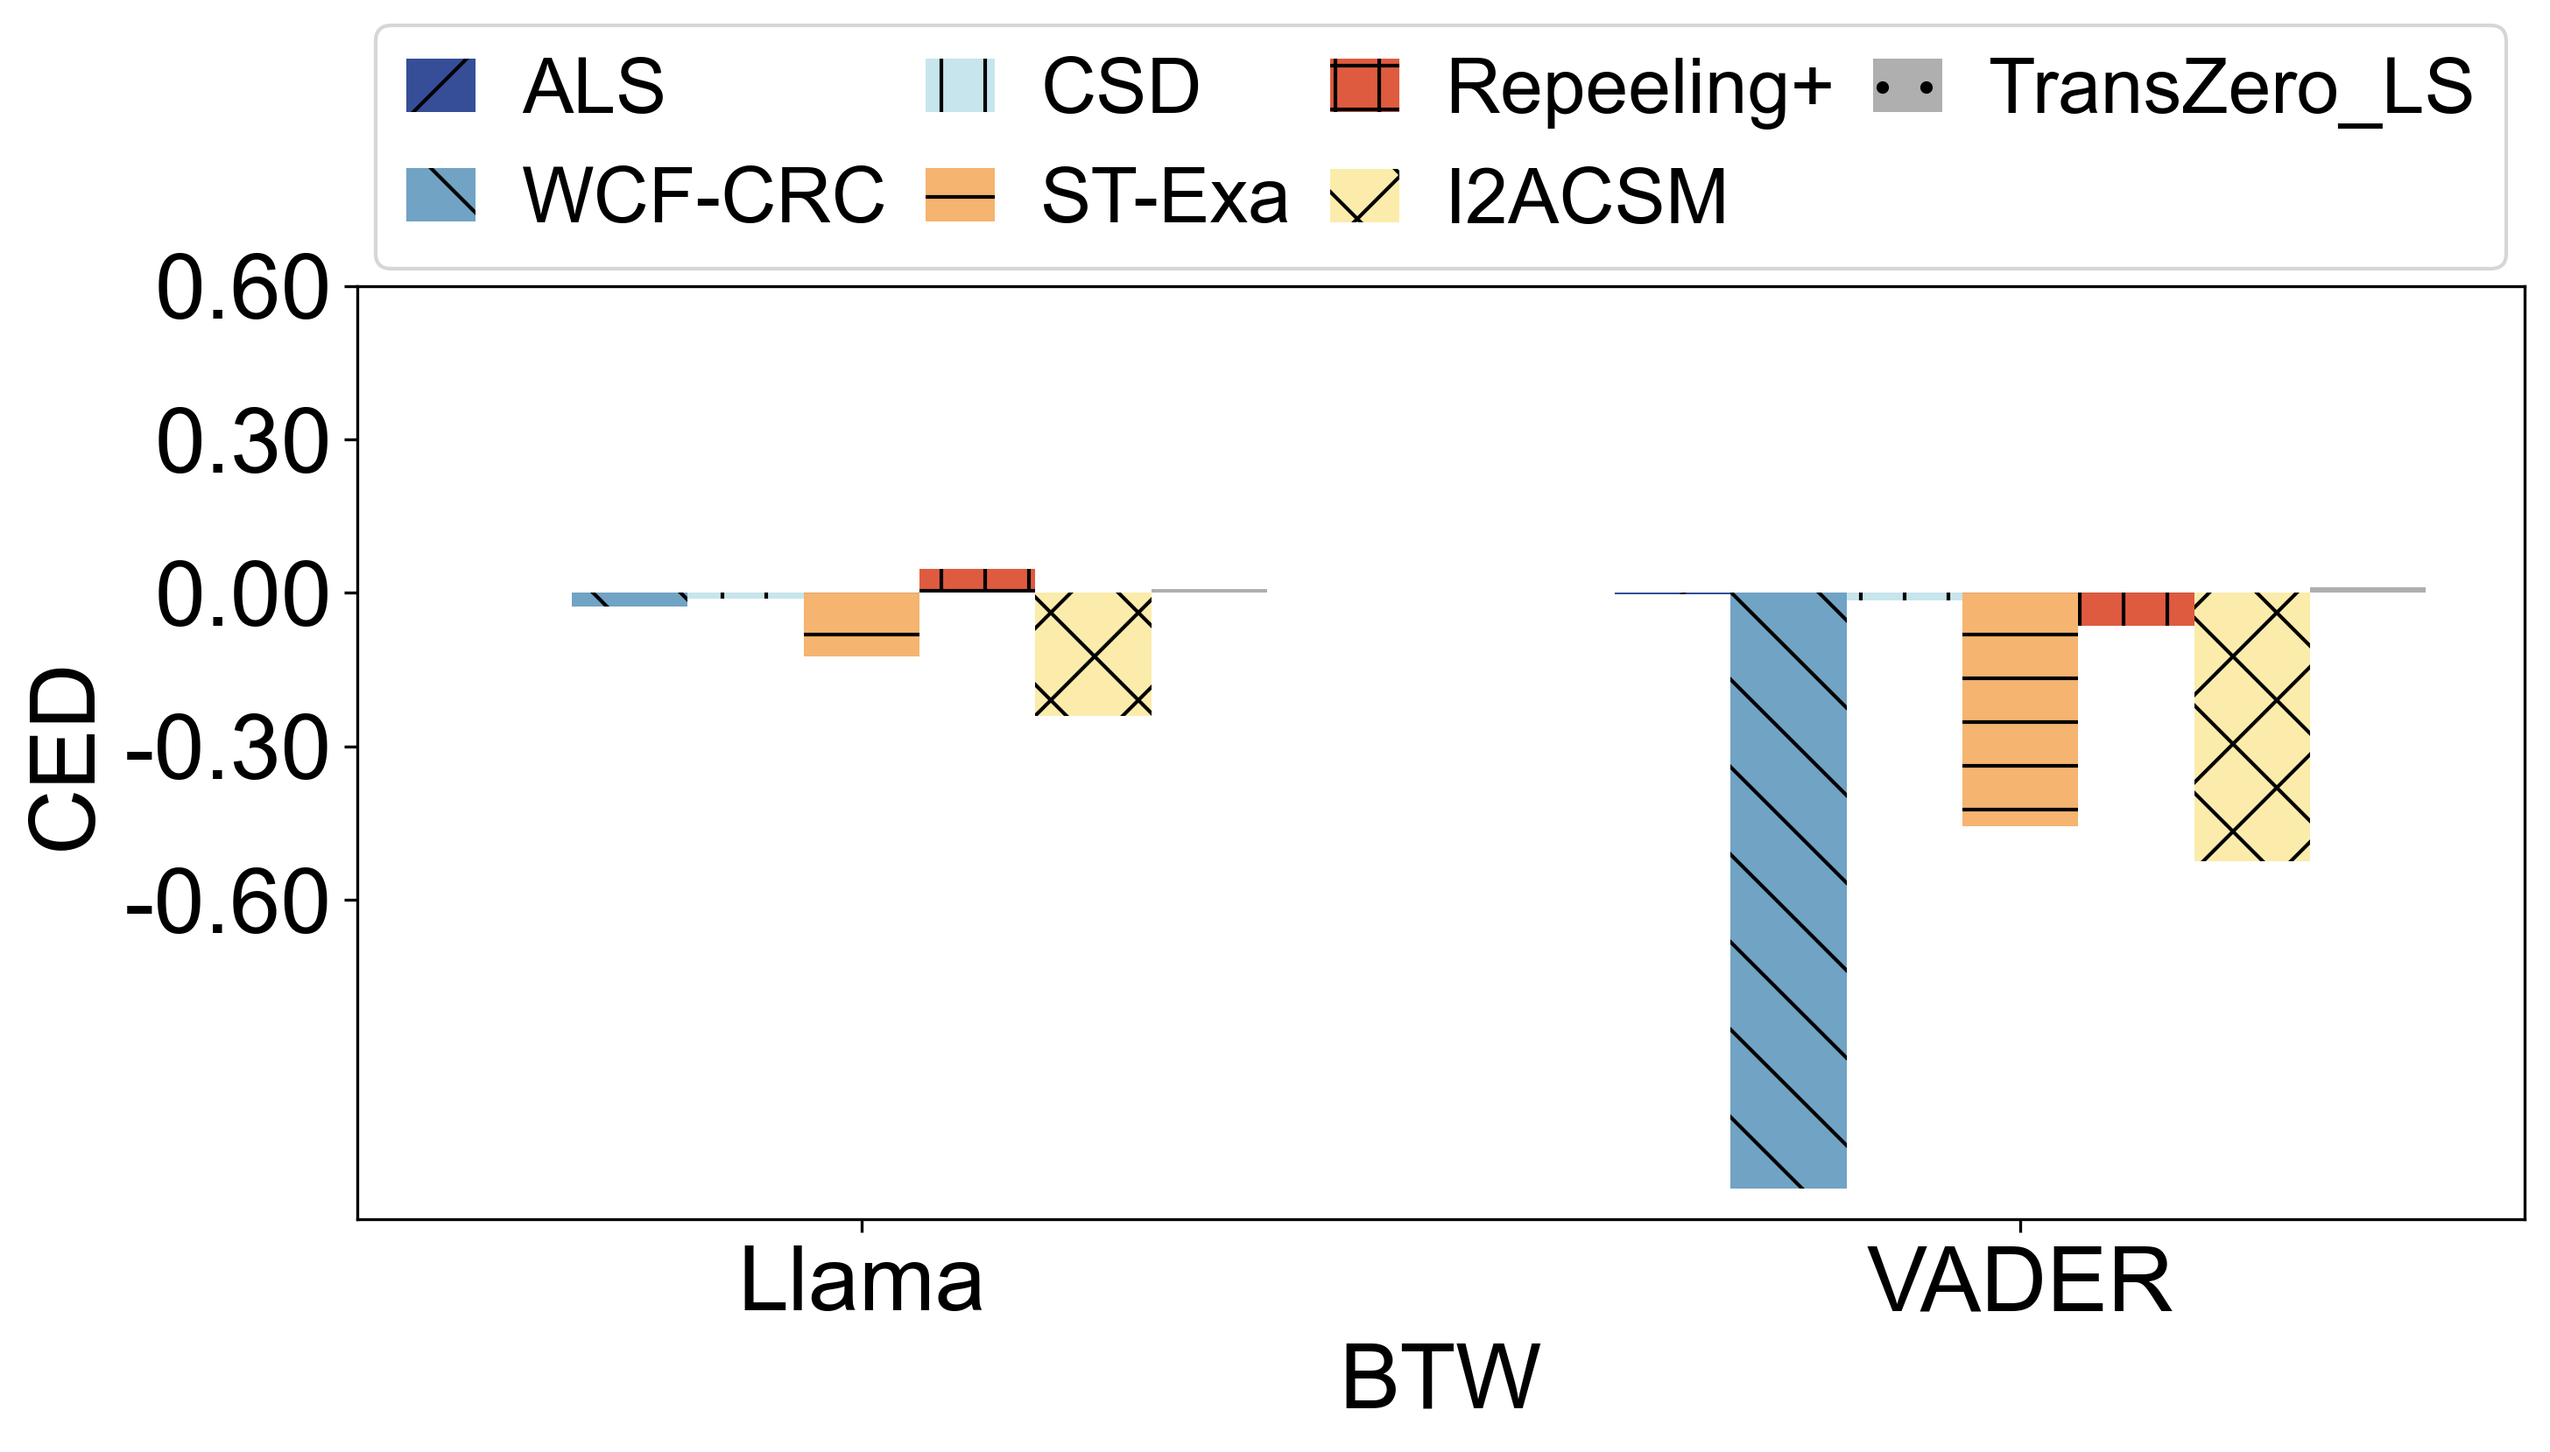
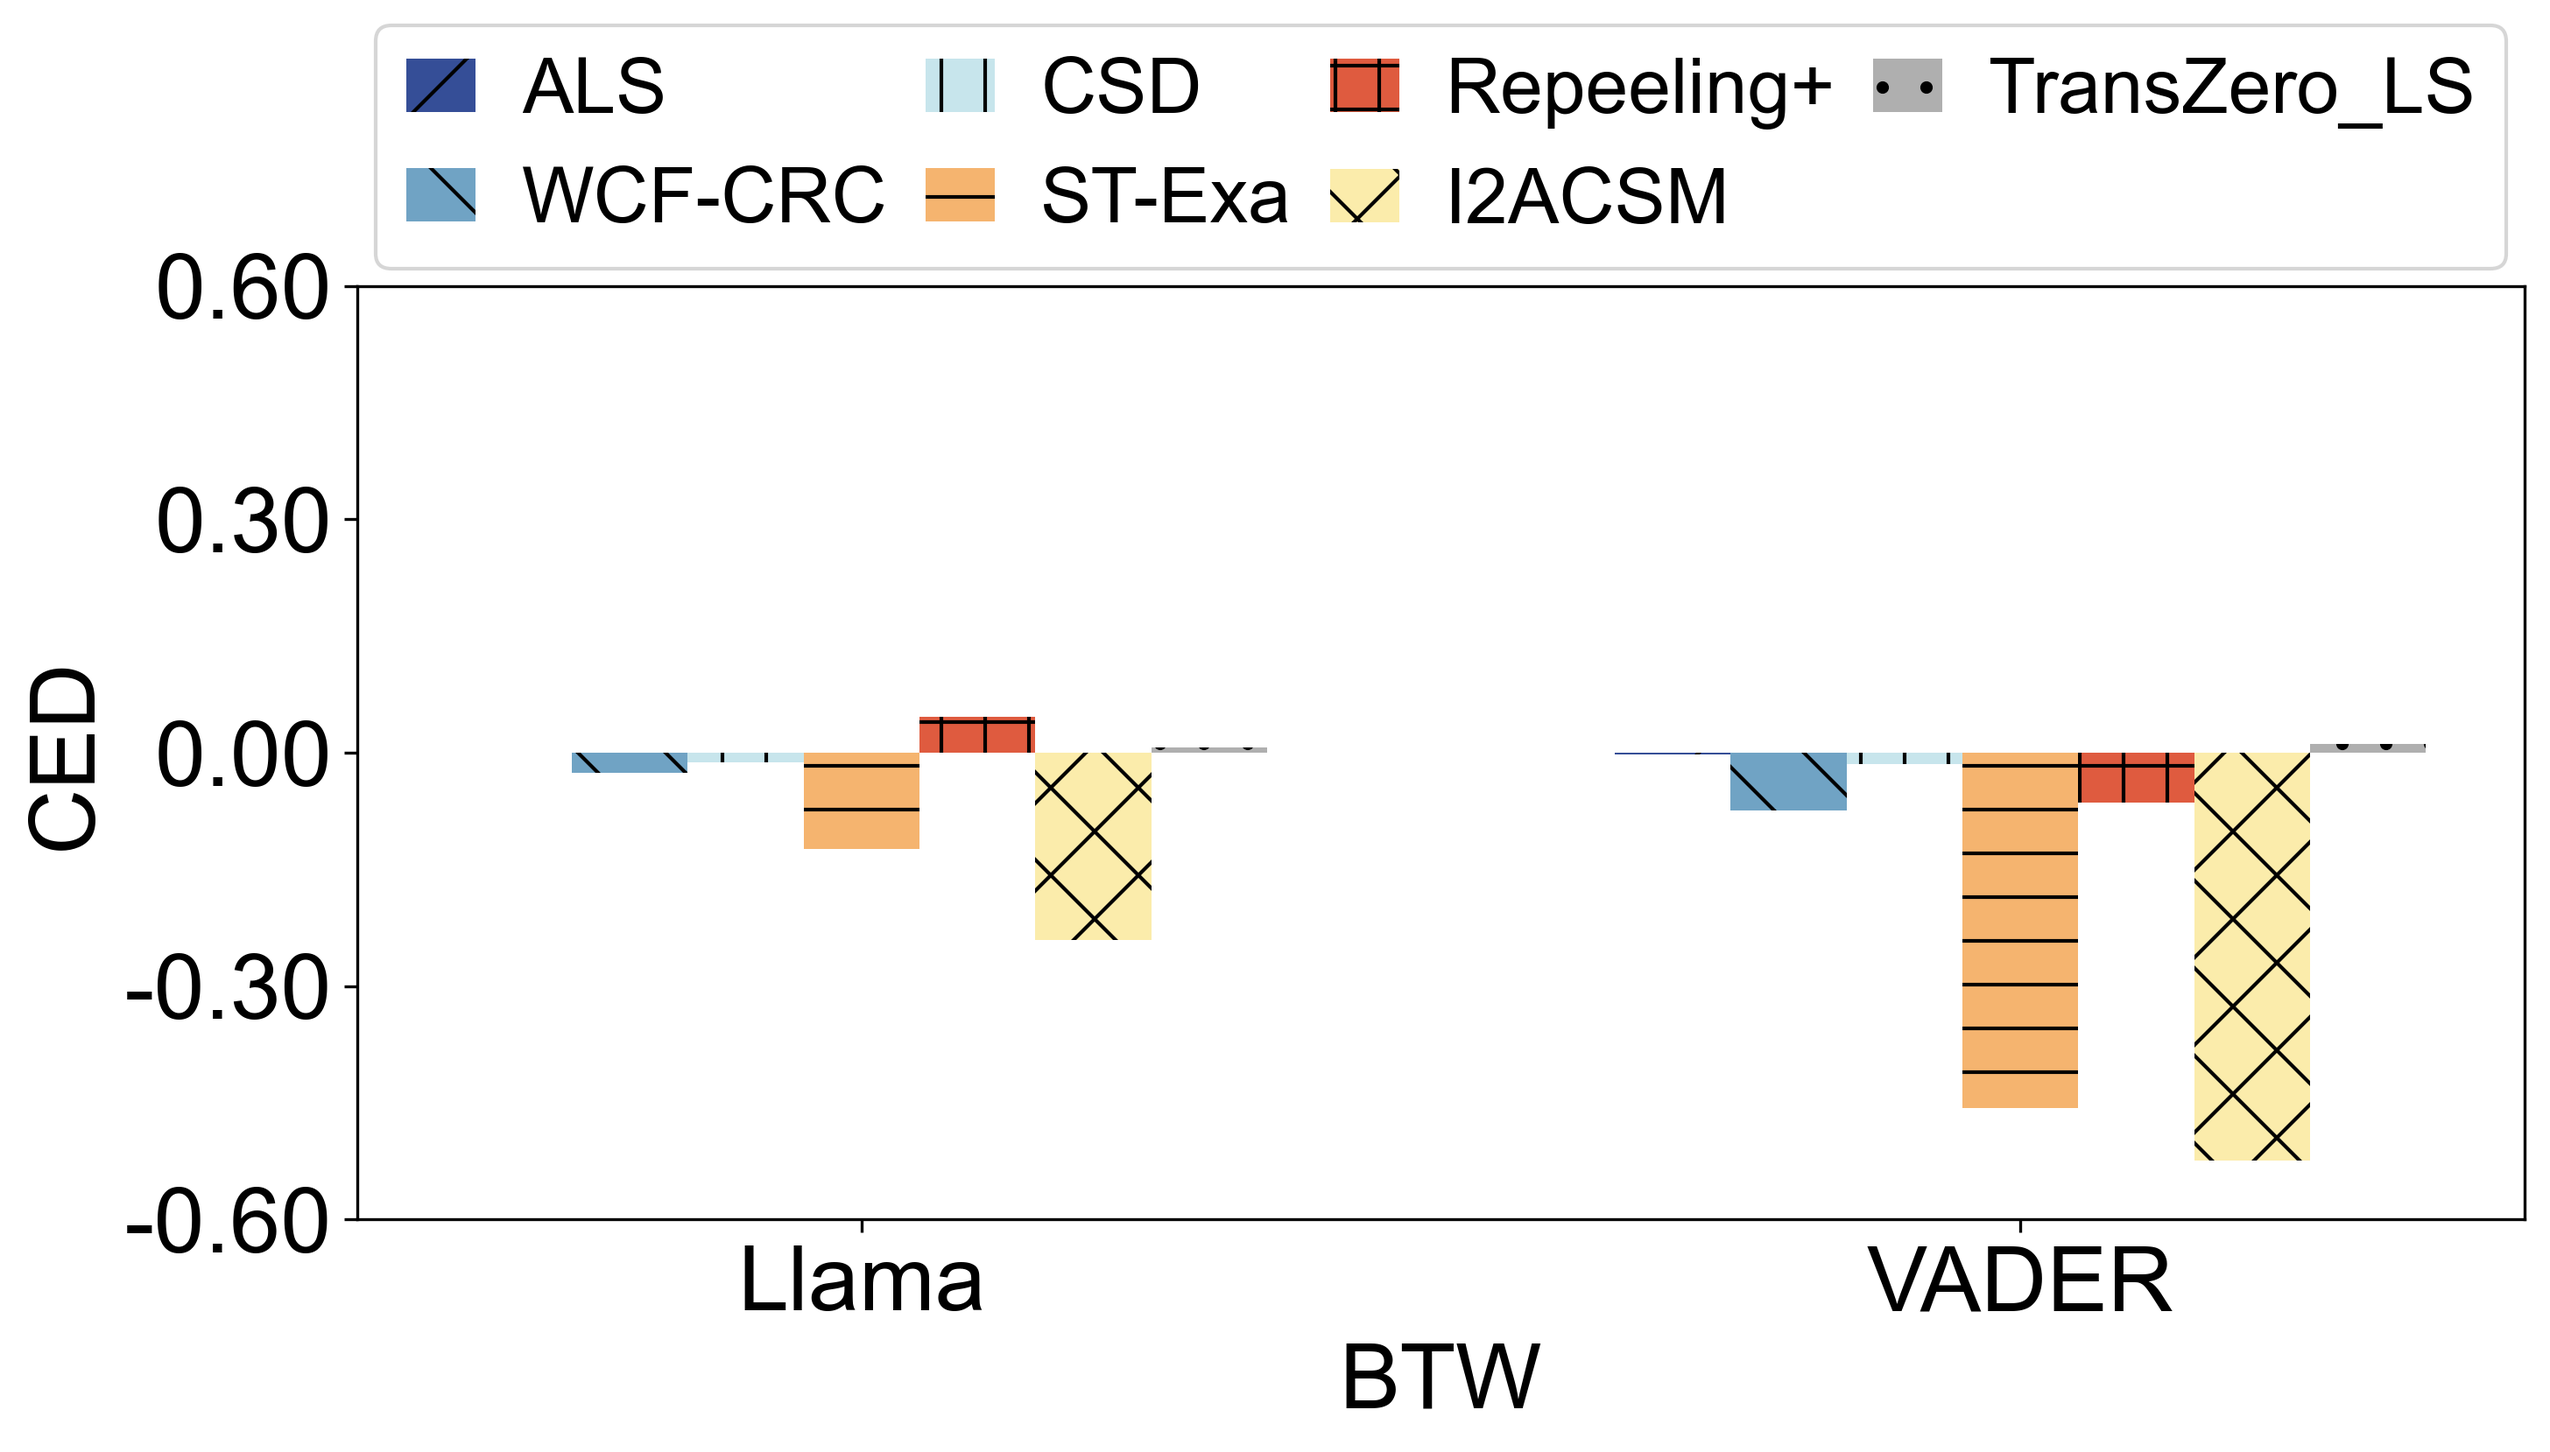
Remove the legend of poly function results

diff --git a/Visualization/Cohesiveness_ATGS.py b/Visualization/Cohesiveness_ATGS.py
@@ -72,10 +72,13 @@ def load_mu_results(dataset, condense_result_dir, mu_list, algo_list):
     return dataset_results
 
 
-def draw_graphs(dataset_results, dataset_label, params_list, algo_list, algo_label_list, color_list, hatch_list, font_size, x_label, threshold, CED_y_min, CED_y_max, CED_y_num, save_label, ncols):
+def draw_graphs(dataset_results, dataset_label, params_list, algo_list, algo_label_list, color_list, hatch_list, font_size, x_label, threshold, CED_y_min, CED_y_max, CED_y_num, save_label, ncols, show_legend):
     global save_path
     for measure, measure_idx in measure_label.items():
-        fig, ax = plt.subplots(figsize=(10, 6))
+        if show_legend:
+            fig, ax = plt.subplots(figsize=(10, 6))
+        else:
+            fig, ax = plt.subplots(figsize=(10, 5))
 
         # Prepare data for each measure
         avg_data = []
@@ -131,7 +134,9 @@ def draw_graphs(dataset_results, dataset_label, params_list, algo_list, algo_lab
 
         # Add legend on the upper center, two rows
         rcParams['legend.borderaxespad'] = 0.3
-        ax.legend(loc='upper center', bbox_to_anchor=(0.5, 1.30), ncol=ncols, fontsize=21, handlelength=0.9, handletextpad=0.6, columnspacing=0.5)
+
+        if show_legend:
+            ax.legend(loc='upper center', bbox_to_anchor=(0.5, 1.30), ncol=ncols, fontsize=21, handlelength=0.9, handletextpad=0.6, columnspacing=0.5)
 
         # Adjust layout
         plt.tight_layout(rect=[0, 0, 1, 1]) # type: ignore
@@ -179,20 +184,20 @@ if __name__ == "__main__":
         if dataset == "BTW17":
             lambda_results = load_lambda_results(dataset, condense_result_dir, lambda_list, algo_list)
             mu_results = load_mu_results(dataset, condense_result_dir, mu_list, algo_list)
-            draw_graphs(lambda_results, dataset_label, lambda_list, algo_list, algo_label_list, color_list, hatch_list, font_size, r"$\lambda$", lambda_threshold, -0.25, 0.25, 6, "lambda", 4)
-            draw_graphs(mu_results, dataset_label, mu_list, algo_list, algo_label_list, color_list, hatch_list, font_size, r"$\mu$", mu_threshold, -0.25, 0.25, 6,"mu", 4)
+            draw_graphs(lambda_results, dataset_label, lambda_list, algo_list, algo_label_list, color_list, hatch_list, font_size, r"$\lambda$", lambda_threshold, -0.25, 0.25, 6, "lambda", 4, True)
+            draw_graphs(mu_results, dataset_label, mu_list, algo_list, algo_label_list, color_list, hatch_list, font_size, r"$\mu$", mu_threshold, -0.25, 0.25, 6,"mu", 4, False)
         elif dataset == "Chicago_COVID":
             lambda_results = load_lambda_results(dataset, condense_result_dir, lambda_list, algo_list)
             mu_results = load_mu_results(dataset, condense_result_dir, mu_list, algo_list)
-            draw_graphs(lambda_results, dataset_label, lambda_list, algo_list, algo_label_list, color_list, hatch_list, font_size, r"$\lambda$", lambda_threshold, -0.14, 0.14, 6, "lambda", 4)
-            draw_graphs(mu_results, dataset_label, mu_list, algo_list, algo_label_list, color_list, hatch_list, font_size, r"$\mu$", mu_threshold, -0.14, 0.14, 6, "mu", 4)
+            draw_graphs(lambda_results, dataset_label, lambda_list, algo_list, algo_label_list, color_list, hatch_list, font_size, r"$\lambda$", lambda_threshold, -0.14, 0.14, 6, "lambda", 4, True)
+            draw_graphs(mu_results, dataset_label, mu_list, algo_list, algo_label_list, color_list, hatch_list, font_size, r"$\mu$", mu_threshold, -0.14, 0.14, 6, "mu", 4, False)
         elif dataset == "Crawled_Dataset144":
             lambda_results = load_lambda_results(dataset, condense_result_dir, lambda_list, algo_sublist)
             mu_results = load_mu_results(dataset, condense_result_dir, mu_list, algo_sublist)
-            draw_graphs(lambda_results, dataset_label, lambda_list, algo_sublist, algo_label_sublist, color_sublist, hatch_sublist, font_size, r"$\lambda$", lambda_threshold, -0.8, 0.8, 6, "lambda", 3)
-            draw_graphs(mu_results, dataset_label, mu_list, algo_sublist, algo_label_sublist, color_sublist, hatch_sublist, font_size, r"$\mu$", mu_threshold, -0.8, 0.8, 6, "mu", 3)  
+            draw_graphs(lambda_results, dataset_label, lambda_list, algo_sublist, algo_label_sublist, color_sublist, hatch_sublist, font_size, r"$\lambda$", lambda_threshold, -0.8, 0.8, 6, "lambda", 3, True)
+            draw_graphs(mu_results, dataset_label, mu_list, algo_sublist, algo_label_sublist, color_sublist, hatch_sublist, font_size, r"$\mu$", mu_threshold, -0.8, 0.8, 6, "mu", 3, False)  
         elif dataset == "Crawled_Dataset26":
             lambda_results = load_lambda_results(dataset, condense_result_dir, lambda_list, algo_sublist)
             mu_results = load_mu_results(dataset, condense_result_dir, mu_list, algo_sublist)
-            draw_graphs(lambda_results, dataset_label, lambda_list, algo_sublist, algo_label_sublist, color_sublist, hatch_sublist, font_size, r"$\lambda$", lambda_threshold, 0, 120, 6, "lambda", 3)
-            draw_graphs(mu_results, dataset_label, mu_list, algo_sublist, algo_label_sublist, color_sublist, hatch_sublist, font_size, r"$\mu$", mu_threshold, 0, 120, 6, "mu", 3)
+            draw_graphs(lambda_results, dataset_label, lambda_list, algo_sublist, algo_label_sublist, color_sublist, hatch_sublist, font_size, r"$\lambda$", lambda_threshold, 0, 120, 6, "lambda", 3, True)
+            draw_graphs(mu_results, dataset_label, mu_list, algo_sublist, algo_label_sublist, color_sublist, hatch_sublist, font_size, r"$\mu$", mu_threshold, 0, 120, 6, "mu", 3, False)
